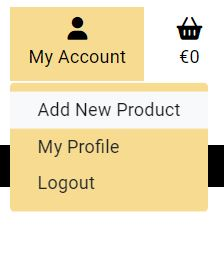
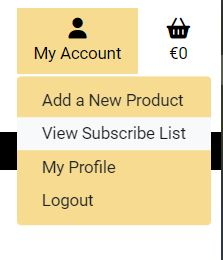
README - add dropdown menus and superuser activities to features section

diff --git a/README.md b/README.md
@@ -2,7 +2,7 @@
 
 # ![MLJ logo](static/favicon-32x32.png) Memory Lane Jewellery
 
-- You can view the live site here (https://memorylane-jewellery-63c74e421293.herokuapp.com/bag/)
+- You can view the live site here (https://memorylane-jewellery-63c74e421293.herokuapp.com/)
 
 
 ### About 
@@ -37,12 +37,14 @@ Link to [WIREFRAMES.md](docs/WF.md) file.
 ### Common Header & Footer
 
 Header ![](docs/f-commonheader.JPG)
+Hover on `SPECIALS` above
+
 Footer ![](docs/f-commonfooter.JPG)
 
-#### Header Menu & Icons
+#### Header Menu & Icons 
 
 ##### Memory Lane Jewellery 
-If any part of Memory Lane Jewellery or the favicon is clicked it will return user to the home page.
+If any part of Memory Lane Jewellery or the favicon in the header is clicked it will return user to the home page.
 
 ##### Search
 Search is implemeted same as Boutique Ado.
@@ -51,13 +53,10 @@ Search is implemeted same as Boutique Ado.
 |No User logged in|Admin logged in|User logged in|
 | :---: |:---:|:---:|
 |![](docs/d-myaccount.JPG)|![](docs/d-admin.JPG)|![](docs/d-mols.JPG)|
-|Option to `Register` as new user or `Login`|Extra Option to `Add product`|Option to view Profile incl order history|
+|Option to `Register` as new user or `Login`|Extra Options to `Add product` & `View Subscribe list`|Option to view Profile incl order history|
 
 ##### Basket 
 The Basket icon when clicked goes to Shopping Bag page
-
-##### Banner
-Currently the banner has a free delivery message, this may change depending on time of year.
 
 ##### Dropdown Menus
 | Browse :`By Price` selected | For Her : `Bracelets` selected|Design  : `Mix` selected|Specials : `Latest Designs` selected|
@@ -69,12 +68,41 @@ A `Contact Us` app` was subsequently added so apologies as some screenshots may 
 
 ![](docs/d-contactus.JPG)
 
-##### Footer
+###### FOR HER
+The dropdown menus are fairly self explanatory, The 1st `Browse` menu item is a sorting for all products, The following is what is rendered on the `FOR HER` menu
+
+|Earrings|Pendants|
+|:---: |:---:|
+|![](docs/fh-earrings.JPG)|![](docs/fh-pendant.JPG)|
+
+|Bracelets|Rings|
+|:---: |:---:|
+|![](docs/fh-brac.JPG)|![](docs/fh-ring.JPG)|
+
+###### DESIGN
+This is listing product by Platinium,  Gold, Silver or a mix of both Gold & Silver, implemented with the `Collection` model.
+
+###### SPECIALS
+![](docs/d-specials.JPG)
+
+`Latest Designs` are items that have been recently added to the database & are identified by the keyword "NEW" (case insensitive) in the product description, When the admin user is adding the next set of designs hte keyword NEW will need to be removed from the current Latest designs.
+
+`Offers` are items that have been discounted from a previous RRP, usually they are end of line items that are not selling well, They are identified by the keyword "DISCOUNT" (case insensitive) in the product description, Again it is up the the admin user to add this detail to the description when adjusting price.
+
+
+##### Banner
+Currently the banner has a free delivery message, this may change depending on time of year.
+
+
+#####  The Footer
 ![](docs/f-commonfooter.JPG)
 
 Footer has link to a privacy policy & a mockup facebook business page.
 
-### Home Page (All pages include header & footer described above)
+### Home Page 
+
+All pages include common header & footer described above, This is a visual of the home page wihtout common header/footer.
+
 ![](docs/h-page.JPG)
 
 The home page has a large `SHOP NOW` button to intice the user to shop, There is hint of the next collection which is called Love-in-Star & a pic of the pendant from this collection.
@@ -83,7 +111,7 @@ The home page has a large `SHOP NOW` button to intice the user to shop, There is
 
 ![](docs/p-all.JPG)
 
-The `SHOP NOW` button leads the the all products page, currently 12 in the database.  There is a count on top LHS & a Sort dropdown on RHS, The sort can be by Price, Rating, Name or Category & in either direction.  On large screen porducts are displayed 4 across reducing to 3 on tablet sized screen and eventually stacked on top of each other on small mobile screens.
+The `SHOP NOW` button leads the the all products page, currently 12/13 in the database.  There is a count on top LHS & a Sort dropdown on RHS, The sort can be by Price, Rating, Name or Category & in either direction.  On large screen porducts are displayed 4 across reducing to 3 on tablet sized screen and eventually stacked on top of each other on small mobile screens.
 
 | Laptop | Tablet | Mobile |
 | :---: |:---:|:---:|
@@ -173,18 +201,55 @@ There is redundancy build into the Checkout app during Stripe payment processing
 
 ### Contact Us App
 
-ContactUs is a ***standalone*** app whereby users can submit requests or feedback to site owner.
+ContactUs is a ***standalone*** app whereby users can submit requests to site owner.
 
 |ContactUs page|ContactUs Form completed| ContactUs Confirmation|
 |:---: |:---:|:---:|
 |![](docs/cus-form.JPG)|![](docs/cus-formfilled.JPG)|![](docs/cus-formconfirm.JPG)|
 
-& request saved as ContactUs instance on the database
+The user request is saved as a ContactUs instance on the database
 
 |Description|Screenshot|
 |:---: |:---:|
 |Summary|![](docs/db-cus.JPG)|
 |Detail|![](docs/db-cus2.JPG)|
+
+### Superuser / admin Features
+
+The `admin` user has 2 extra menu items on `My Account` along with `edit` & `delete` options on every Product.
+
+
+|Description|Screenshot|
+|:---: |:---:|
+|My Accounts|![](docs/su-menu.JPG)|
+|Products|![](docs/si-editdel.JPG)|
+
+#### Add a new Product to the database
+Choose Add new product from the My Account menu
+
+|Description|Screenshot|
+|:---: |:---:|
+|Add New Page|![](docs/su-add.JPG)|
+|Form Details |![](docs/su-addnew.JPG)|
+|Toast Confirm|![](docs/su-add-confirm.JPG)|
+
+
+This new product is then visible on the database & on website
+
+|Description|Screenshot|
+|:---: |:---:|
+|Database Summary|![](docs/db-new.JPG)|
+|Database Details |![](docs/db-newdetails.JPG)|
+|Shop Latest Designs (When "New" in Product description) |![](docs/new-goldisc.JPG)|
+|Product Details Page |![](docs/new-detail.JPG)|
+
+
+
+
+
+
+
+
 
 
 

diff --git a/TESTME.md b/TESTME.md
@@ -44,6 +44,11 @@ I followed these instructions on LMS ![](docs/LMS-addcustome404steps.JPG ) but c
 #### Shopping Bag Quantity -/+ Disable Bug
 This is an intermittent bug that I have come across twice now but cannot reproduce at will so difficult to pin it down to fix it so as of 4 days to submission it still exists afaik. The quantity selectors ie the + & - buttons in the shopping bag freeze as if the js `handleEnableDisable` function in `products/templates/products/includes/quantity_input_script.html` disabled both the `plusDisabled & minusDisabled`.
 
+#### Product name misalignment
+
+Not so much a bug but need to tidy up presentation of product names in say the Full Range Page, On large screens when 4 product cards across the screen the product name is misaligned in some cases with other product in the row.  This needs investigation but my instinct is that since the image dimensions vary it may be throwing the alignment of the product name. See below for example
+
+![](docs/bug-productname.JPG)
 
 
 ## LIGHTHOUSE REPORTS
